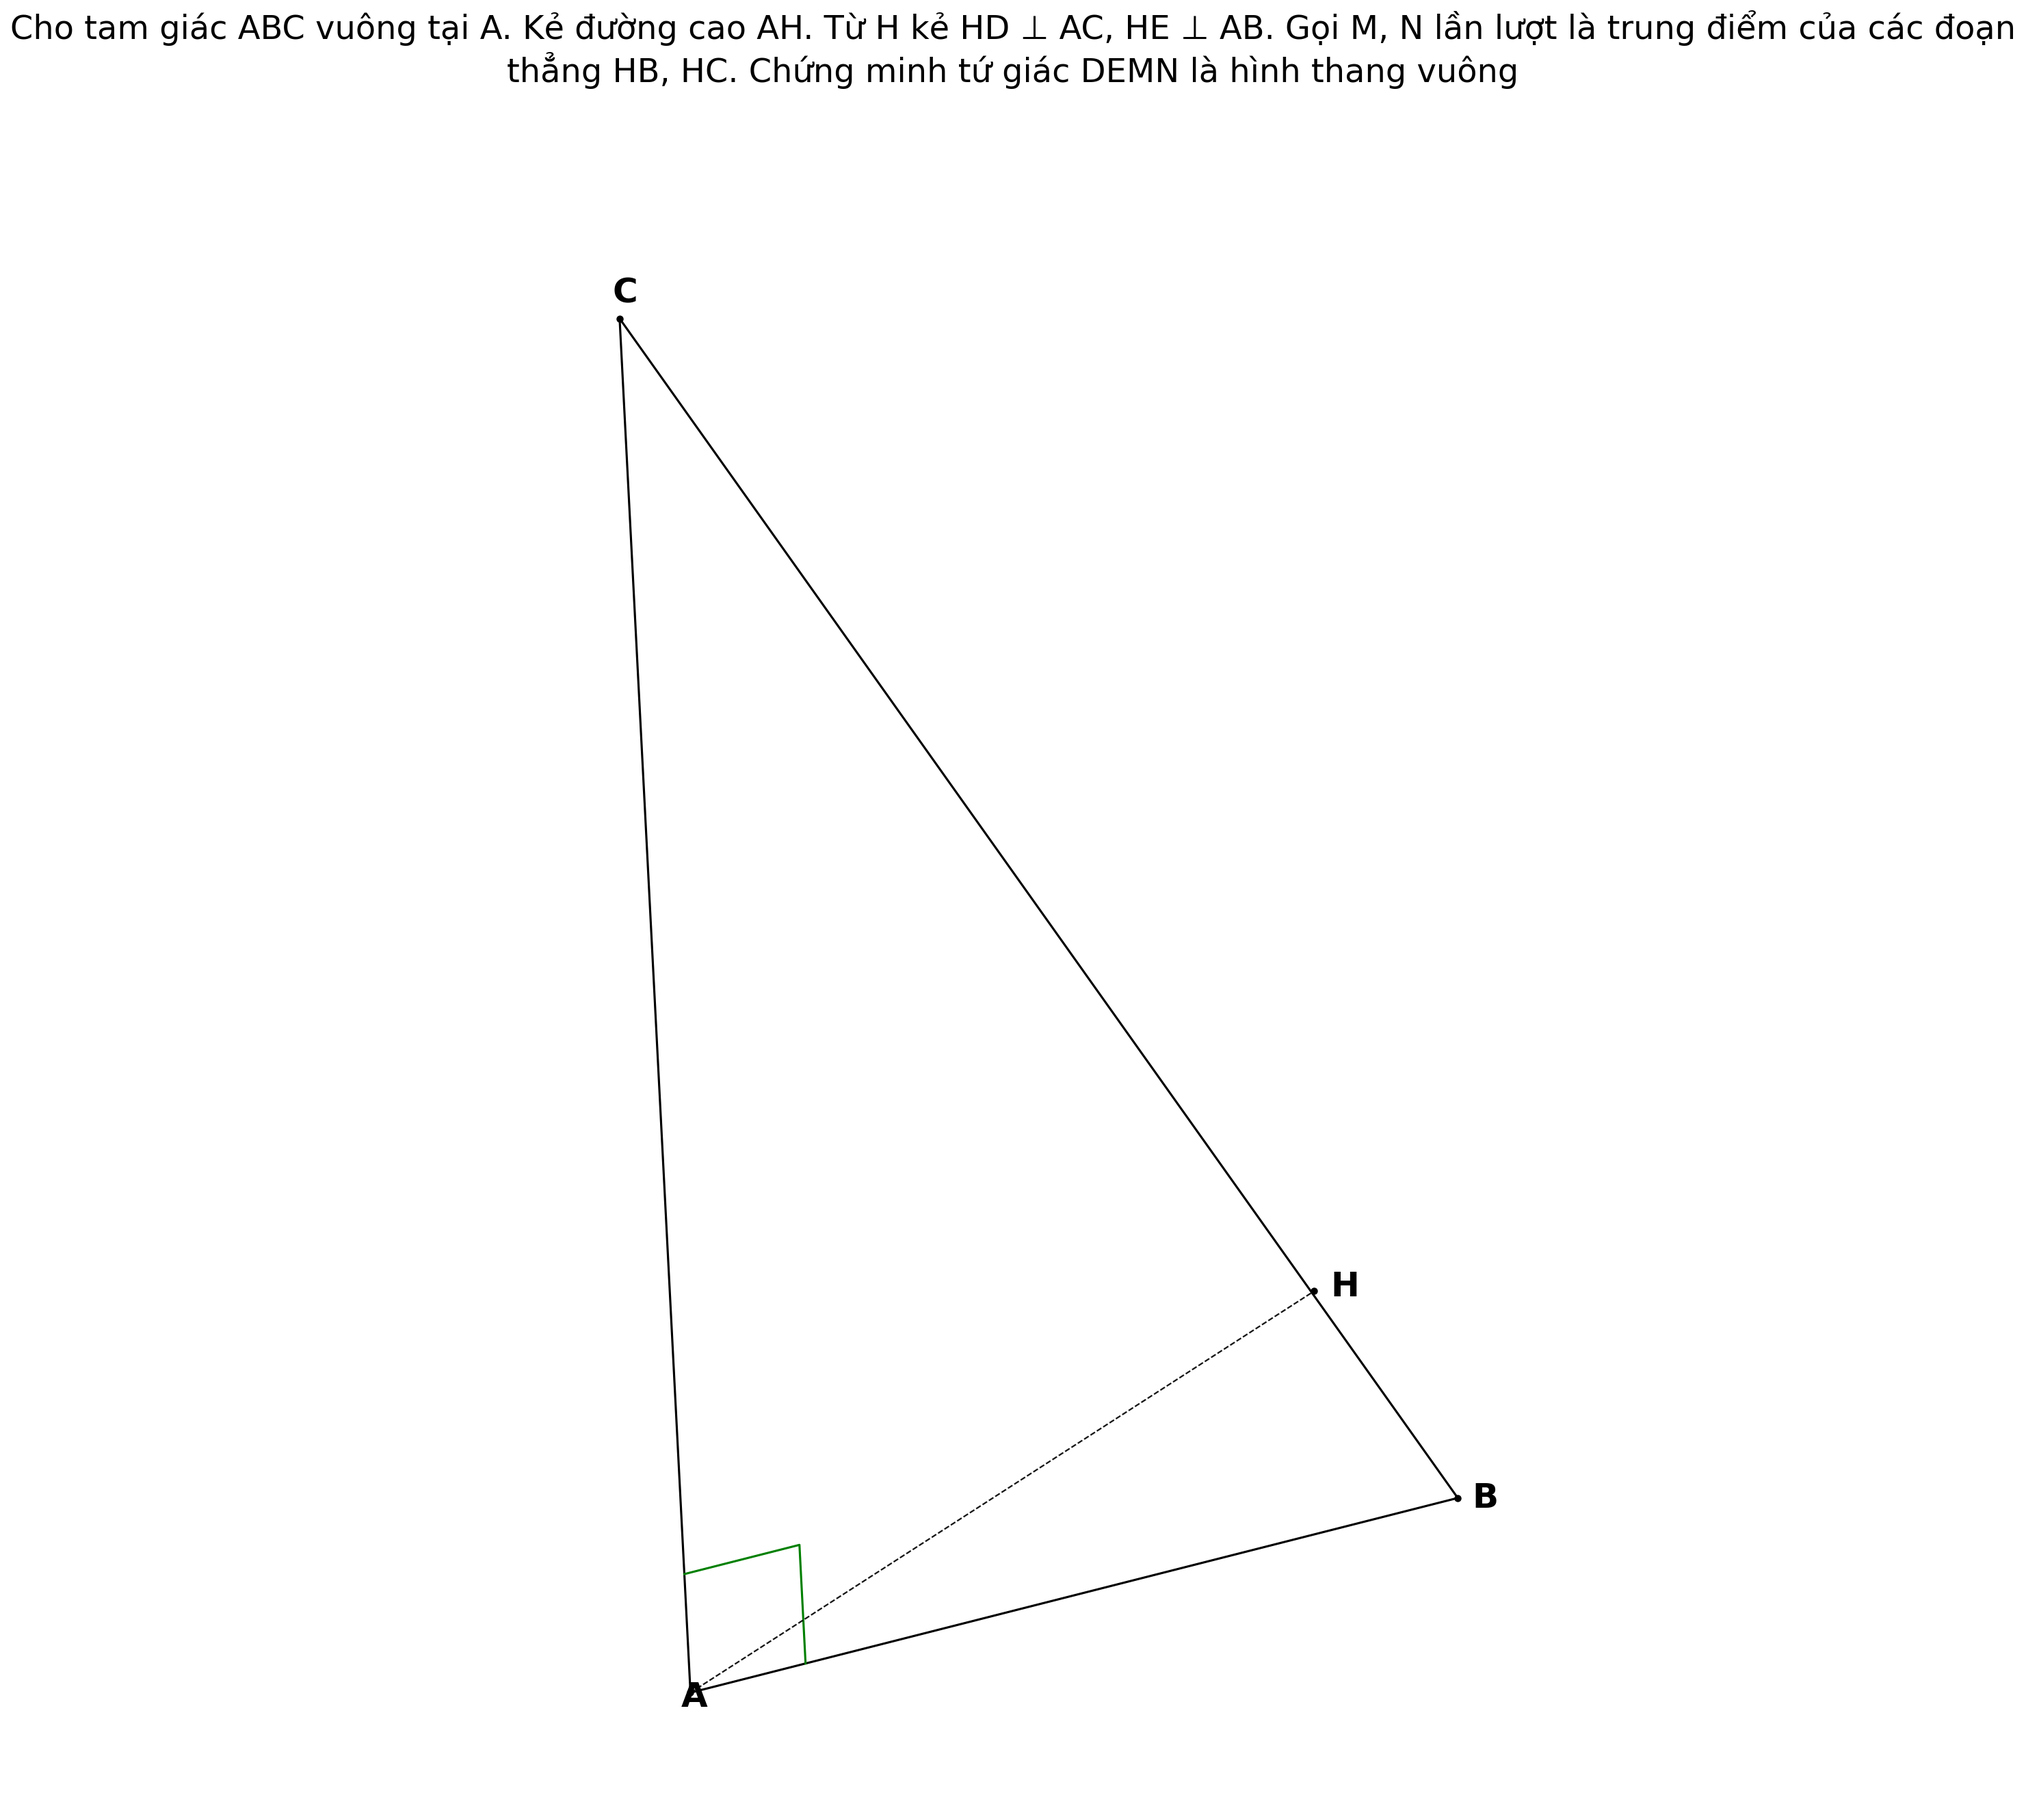
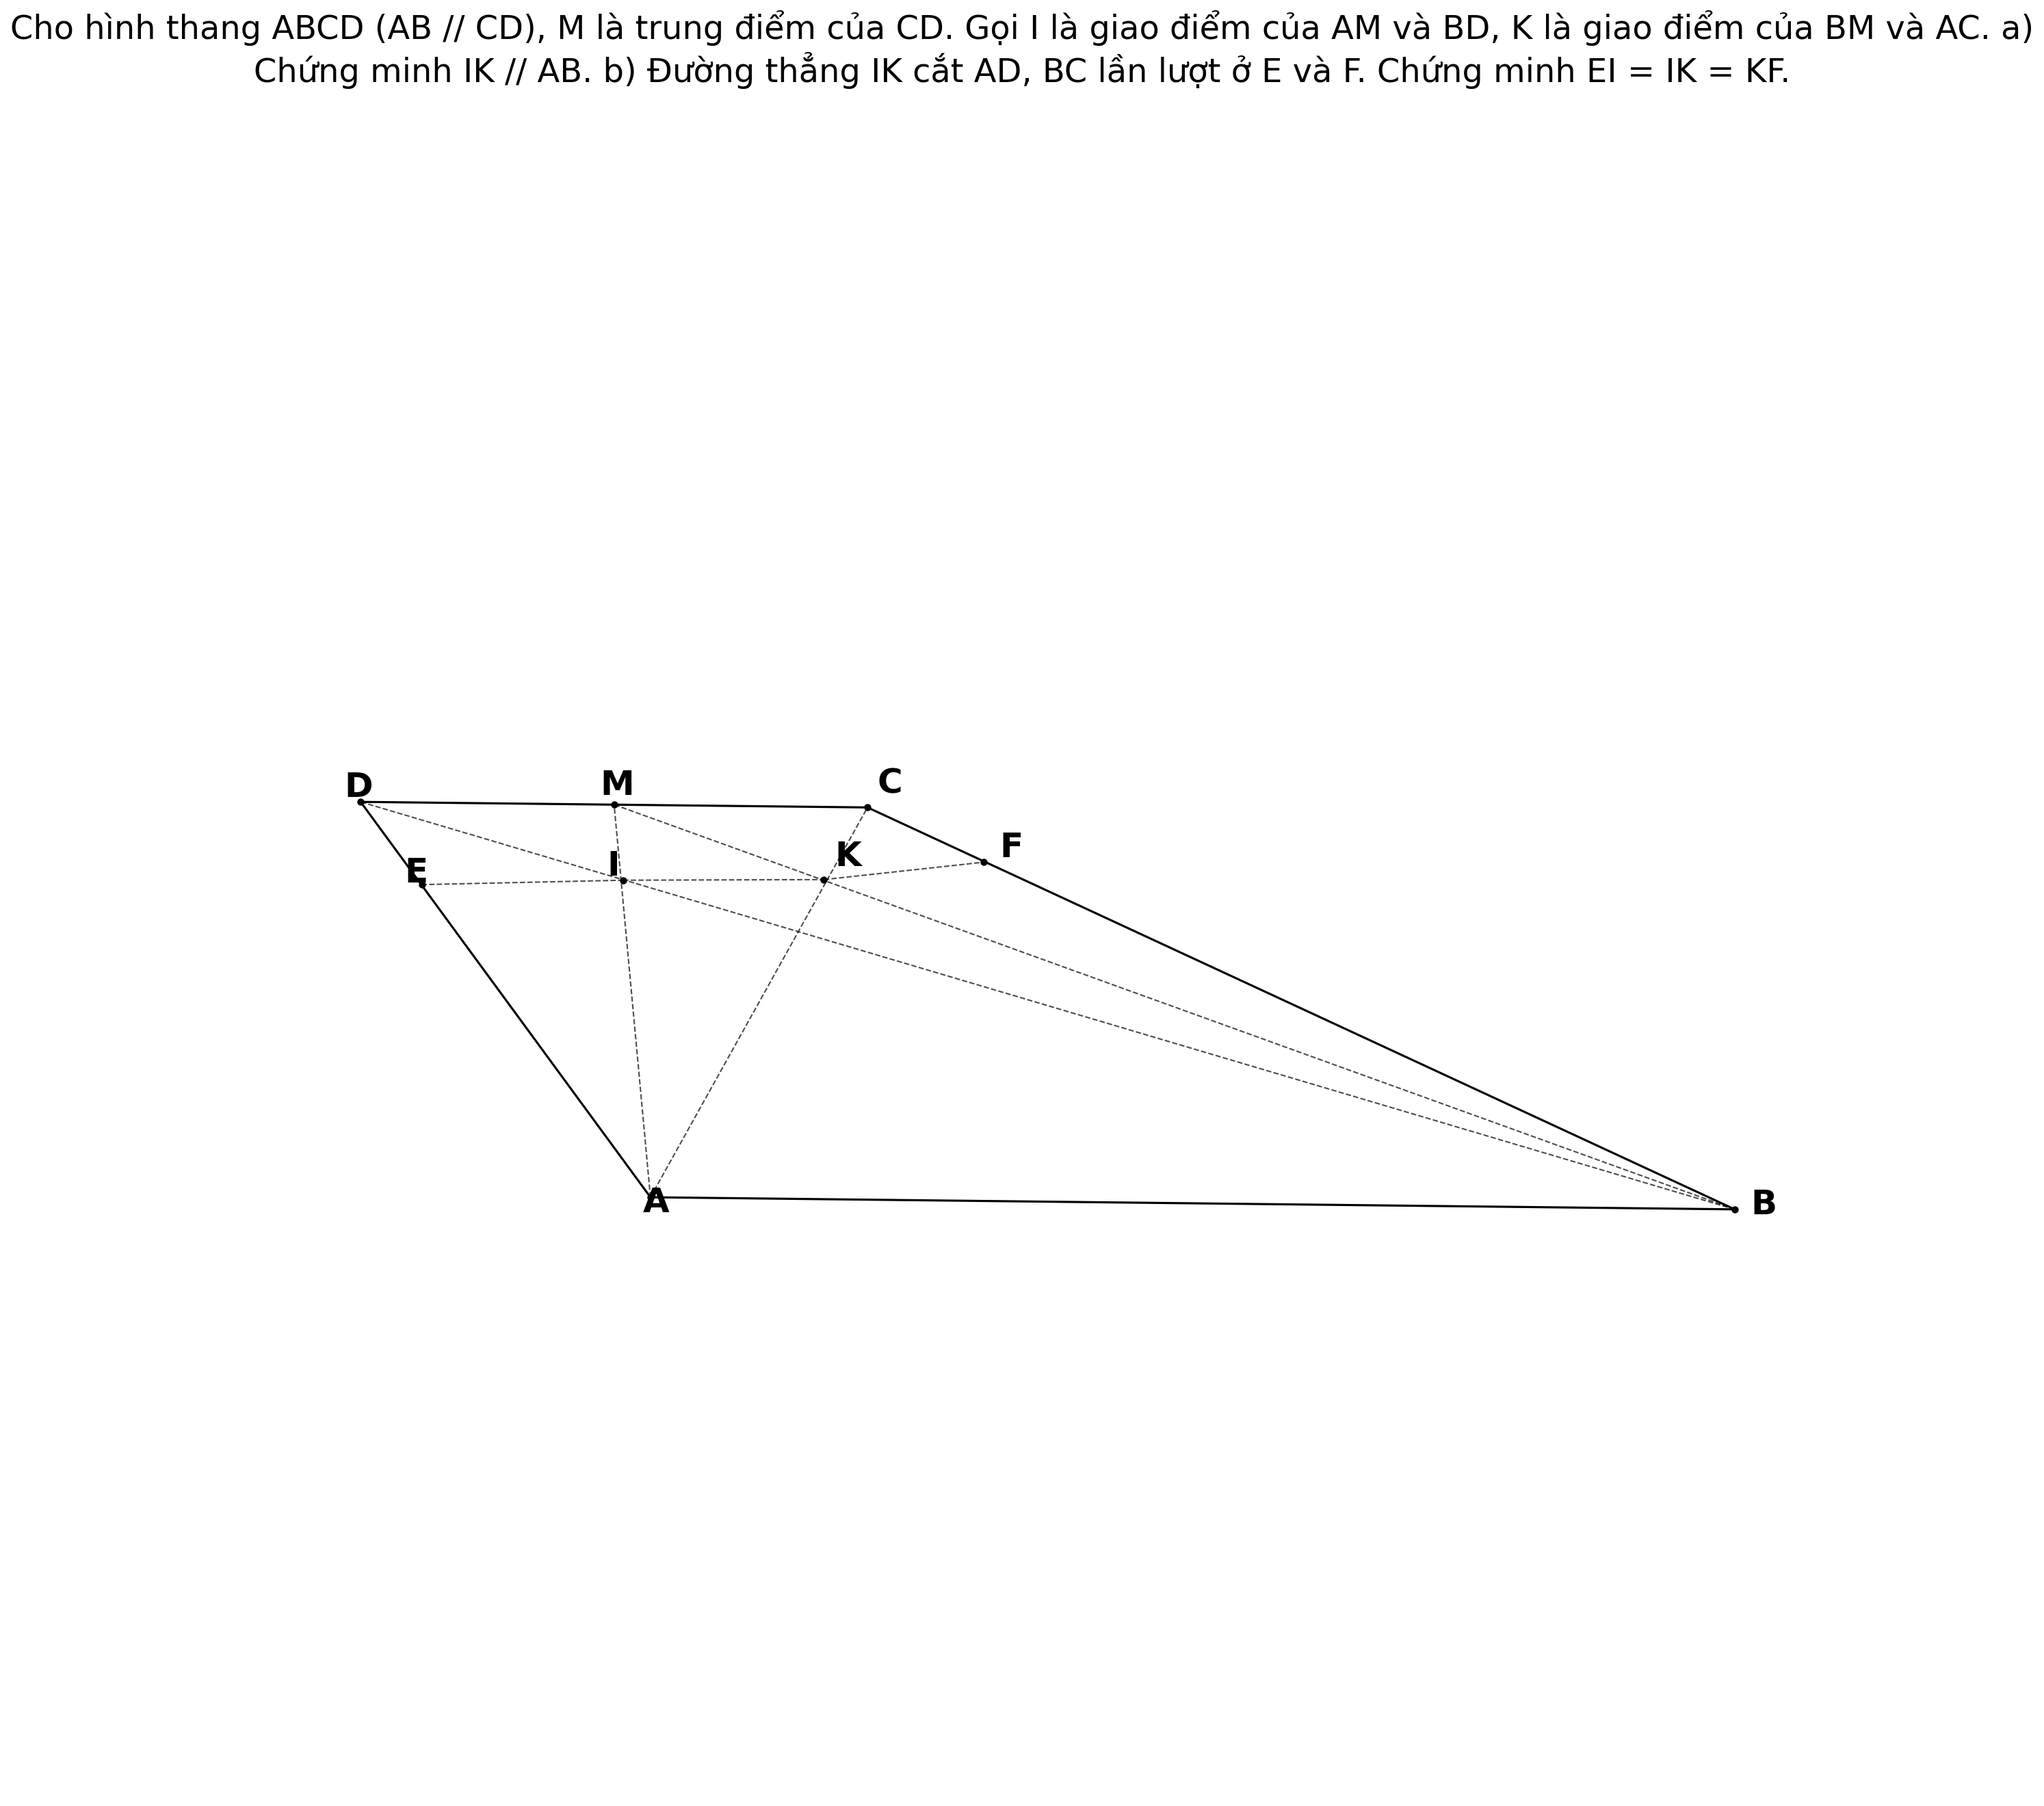
update outsrc id100

diff --git a/test_diagram.py b/test_diagram.py
@@ -65,7 +65,7 @@ def test_single_problem(instruction, dsl_answer, output_path):
         print(f"Instructions count: {len(builder.instructions)}")
         # print(f"Instructions: {builder.instructions}")
         opts = {
-            'epochs': 1500,
+            'epochs': 2000,
             'n_tries': 1,
             'eps': 1e-6,
             'seed': 42,
